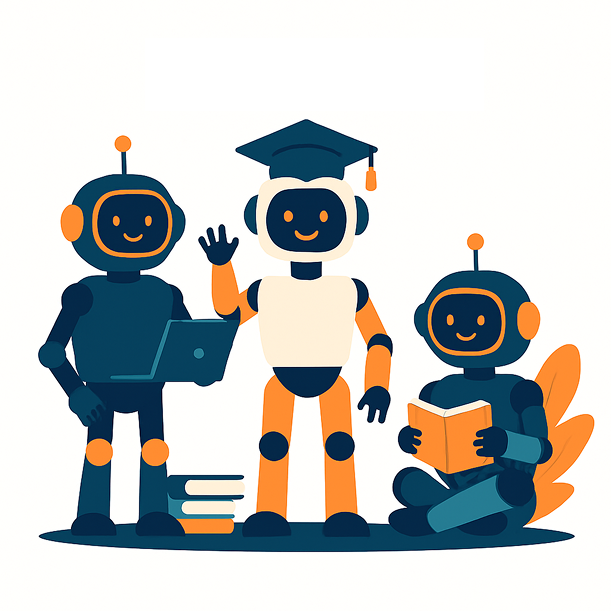
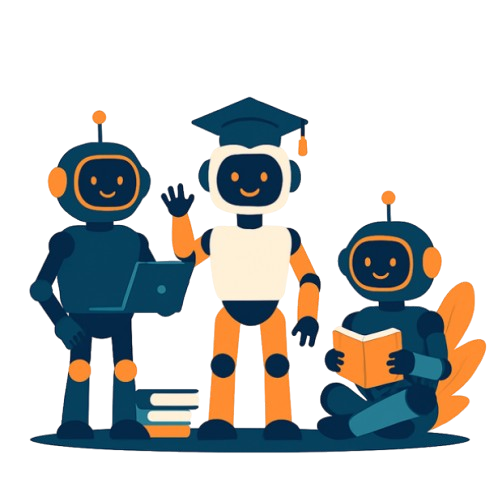
finish

diff --git a/src/components/AboutText.jsx b/src/components/AboutText.jsx
@@ -3,7 +3,7 @@ import React from 'react'
 function AboutText() {
     return (
         <div>
-            <div className="max-w-screen bg-[#1E605E] text-white p-20 rounded-t-[30px] relative overflow-hidden">
+            <div className="mb-[-100px] max-w-screen bg-[#1E605E] text-white p-20 rounded-t-[30px] relative overflow-hidden">
                 <div className="absolute left-15 top-20 bottom-10 border-l-2 border-white">
                     <div className="w-2 h-2 bg-white rounded-full absolute -top-1 left-[-5px]"></div>
                     <div className="w-2 h-2 bg-white rounded-full absolute -bottom-1 left-[-5px]"></div>

diff --git a/src/components/AboutImage.jsx b/src/components/AboutImage.jsx
@@ -1,9 +1,10 @@
+import aboutUs from '../assets/images/about-us.png'
 
 function AboutImage() {
   return (
     <div className='flex justify-center items-center flex-col'>
-      <h1 className='font-semibold text-2xl'>Биз жонундо</h1>
-      <img src="" alt="" />
+      <h1 className='font-semibold text-3xl md:text-4xl'>Биз жонундо</h1>
+      <img className='mb-[-55px]' src={aboutUs} alt="" />
     </div>
   )
 }
